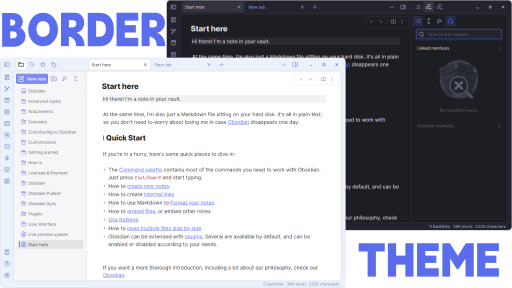
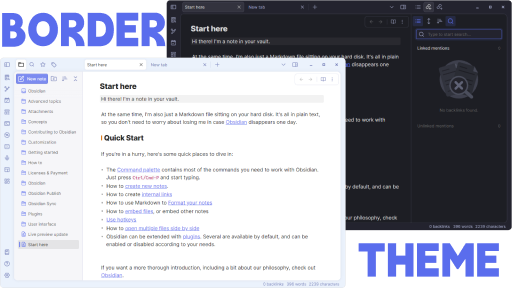
update

diff --git a/theme.css b/theme.css
@@ -338,7 +338,7 @@ body {
     --toggle-thumb-width: 26px;
     --file-margins: var(--size-4-2) var(--size-4-5);
     --background-modifier-cover: rgba(0, 0, 0, 0.25);
-    --background-modifier-form-field: var(--background-primary);
+    --background-modifier-form-field: var(--background-modifier-hover);
     --keyboard-background: var(--background-primary);
     --checkbox-size: 17px;
 }
@@ -350,9 +350,9 @@ body {
     --tag-background: hsla(var(--interactive-accent-hsl), 0.2);
     --modal-background: var(--background-secondary);
     --search-result-background: var(--background-secondary-accent);
-    --background-modifier-form-field: var(--background-secondary-accent);
+    --background-modifier-form-field: var(--background-modifier-hover);
     --background-modifier-cover: rgba(0, 0, 0, 0.5);
-    --background-modifier-hover: rgba(var(--mono-rgb-100), 0.1);
+    --background-modifier-hover: rgba(var(--mono-rgb-100), 0.08);
     --settings-home-background: var(--background-primary);
     --interactive-normal: hsl(calc(var(--accent-h) + 8),
             calc(var(--accent-s) / 7),
@@ -934,16 +934,6 @@ body:not(.is-mobile):not(.floating-tab-title-bar-disable) .document-search-conta
     margin: 0px;
 }
 
-body:not(.is-mobile):not(.floating-tab-title-bar-disable) .graph-controls.is-close {
-    width: fit-content;
-    position: absolute;
-    left: 12px;
-}
-
-body:not(.is-mobile):not(.floating-tab-title-bar-disable) .graph-controls {
-    position: absolute;
-    left: 12px;
-}
 
 /*nav-buttons left align*/
 .nav-buttons-container {
@@ -1207,6 +1197,12 @@ body:not(.is-phone) input.prompt-input:focus-visible {
 }
 
 /*color and blur*/
+.modal.mod-canvas-help,
+.graph-controls,
+.graph-controls.is-close,
+.canvas-controls button,
+.canvas-card-menu,
+.suggestion-container,
 .popover,
 .prompt,
 .menu,
@@ -1216,8 +1212,14 @@ body:not(.is-phone) input.prompt-input:focus-visible {
     -webkit-backdrop-filter: blur(12px) saturate(190%) contrast(50%) brightness(130%);
 }
 
-.theme-dark.is-mobile .prompt,
+.theme-dark .modal.mod-canvas-help,
+.theme-dark .graph-controls,
+.theme-dark .graph-controls.is-close,
+.theme-dark .canvas-controls button,
+.theme-dark .canvas-card-menu,
+.theme-dark .suggestion-container,
 .theme-dark .popover,
+.theme-dark.is-mobile .prompt,
 .theme-dark .prompt,
 .theme-dark .menu,
 .theme-dark .suggestion-container.mod-search-suggestion {
@@ -1225,6 +1227,12 @@ body:not(.is-phone) input.prompt-input:focus-visible {
     backdrop-filter: blur(10px) saturate(190%) contrast(70%) brightness(80%);
     -webkit-backdrop-filter: blur(10px) saturate(190%) contrast(70%) brightness(80%);
 }
+
+.canvas-controls-group {
+    background-color: transparent;
+    border: 1px solid var(--divider-color);
+}
+
 
 .suggestion-container.mod-search-suggestion .suggestion {
     background-color: transparent;
@@ -1260,6 +1268,7 @@ input.prompt-input {
 
 
 /*====== 动效 ======*/
+.graph-controls:not(.is-close),
 body:not(.is-phone) .popover,
 body:not(.is-phone) .menu,
 body:not(.is-phone) .prompt,
@@ -1300,6 +1309,53 @@ body:not(.is-phone) .suggestion-container {
 body:not(.is-phone) .modal.mod-settings {
     animation: 0.2s fadeIn both;
 }
+
+/* canvas */
+body {
+    --canvas-dot-pattern: var(--color-base-30);
+}
+
+
+/* graph*/
+.graph-controls.is-close {
+    border: 1px solid var(--divider-color);
+    padding: 0px;
+    border-radius: var(--radius-s);
+}
+
+.graph-controls-button.mod-open,
+.graph-controls-button.mod-animate {
+    width: 32px;
+    height: 32px;
+    border-radius: 0px;
+    --icon-color: var(--text-normal);
+}
+
+.graph-controls-button.mod-open {
+    height: 33px;
+}
+
+.graph-controls-button.mod-open svg,
+.graph-controls-button.mod-animate svg {
+    --icon-size: var(--icon-s);
+    opacity: var(--icon-opacity);
+}
+
+.graph-controls-button.mod-open:hover,
+.graph-controls-button.mod-animate:hover {
+    opacity: 1;
+    color: var(--icon-color);
+    background-color: unset;
+}
+
+.graph-controls-button.mod-open {
+    border-bottom: 1px solid var(--background-modifier-border);
+}
+
+.graph-controls-button.mod-animate {
+    margin-top: 0px;
+}
+
 
 /* scrollbar autohide*/
 body:not(.native-scrollbars) ::-webkit-scrollbar {
@@ -1676,11 +1732,6 @@ body {
     --italic-color: var(--color-orange);
 }
 
-/*inline code*/
-.markdown-rendered code,
-.cm-s-obsidian span.cm-inline-code {
-    --code-normal: var(--color-pink);
-}
 
 
 /* ======划线文本样式 ====== */
@@ -1800,6 +1851,37 @@ body.theme-dark .markdown-source-view .cm-scroller .cm-line.HyperMD-quote,
 
 .markdown-rendered blockquote {
     border-left: none;
+}
+
+/*inline code*/
+.markdown-rendered code,
+.cm-s-obsidian span.cm-inline-code {
+    --code-normal: var(--color-pink);
+}
+
+/*code*/
+
+body {
+    --code-background: var(--background-primary-alt);
+}
+
+.cm-s-obsidian div.HyperMD-codeblock-begin-bg {
+    border-top: 1px dashed var(--divider-color);
+}
+
+.cm-s-obsidian div.HyperMD-codeblock-end-bg {
+    border-bottom: 1px dashed var(--divider-color);
+}
+
+.cm-s-obsidian div.HyperMD-codeblock-bg {
+    border-left: 1px dashed var(--divider-color);
+    border-right: 1px dashed var(--divider-color);
+}
+
+
+:not(pre)>code[class*="language-"],
+pre[class*="language-"] {
+    border: 1px dashed var(--divider-color);
 }
 
 /* ======table ====== */

diff --git a/README.md b/README.md
@@ -7,7 +7,7 @@ A theme for obsidian.md, built on Windows.
 ## Feature
 
 + Light and dark theme
-+ Customize UI color with accent color setting
++ Customize UI color via accent color setting
 + Translucent window (best used with dark mode)
 + Mobile support
 + Added some icons, illustrations and motion effects
